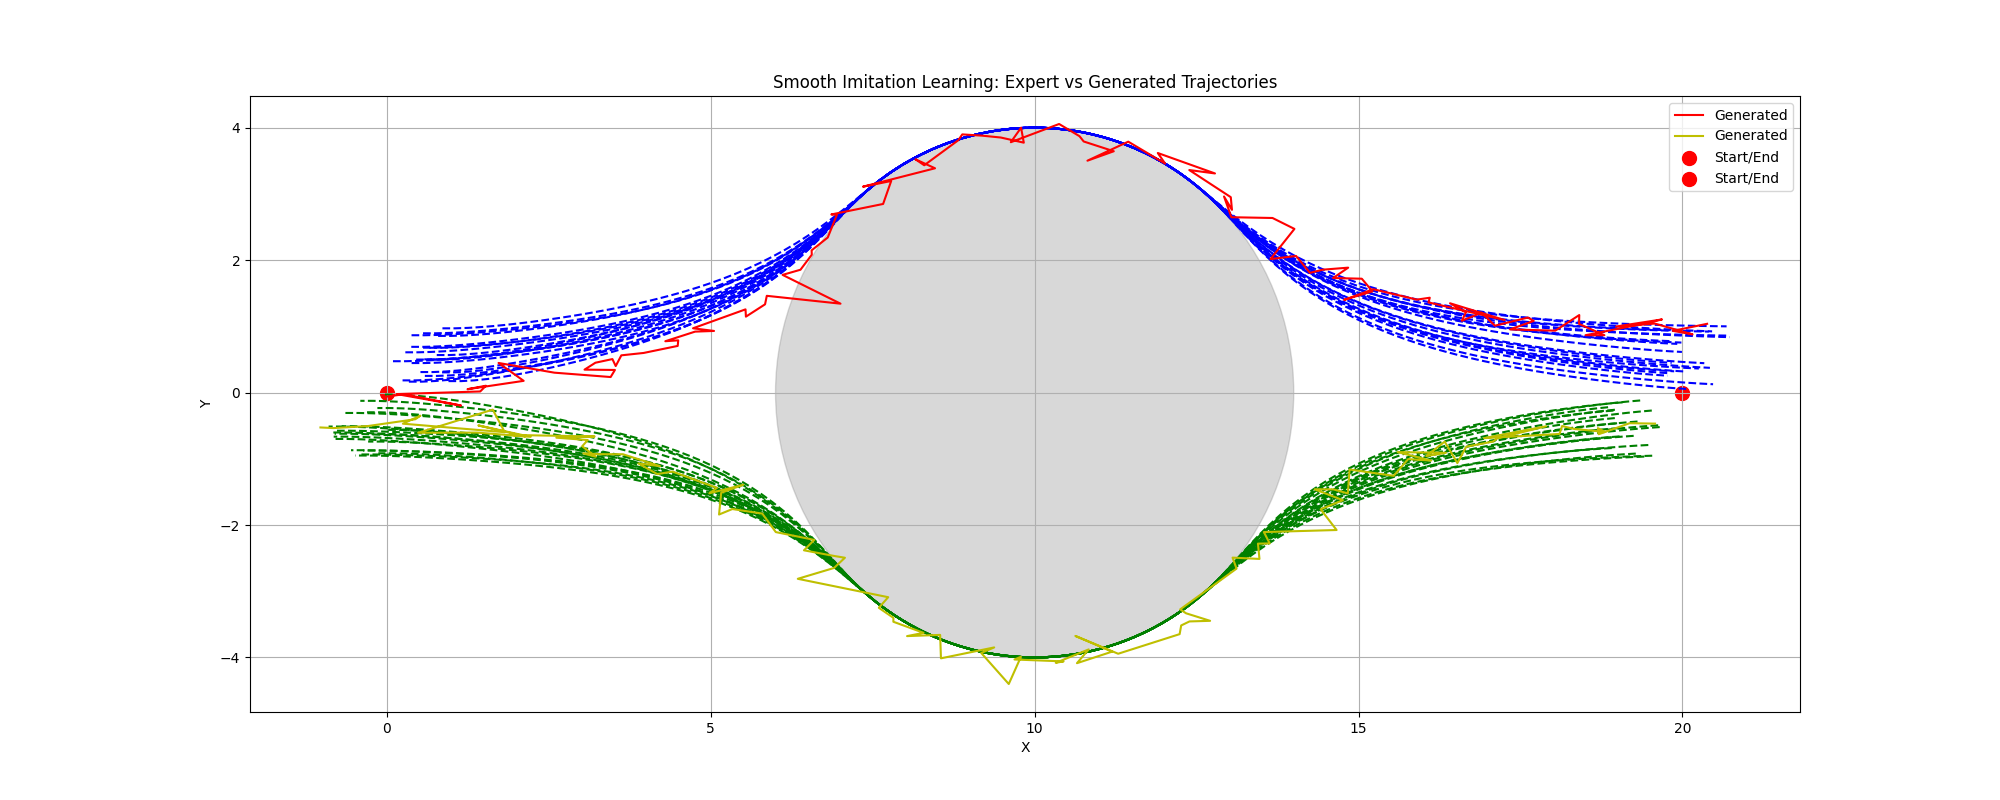
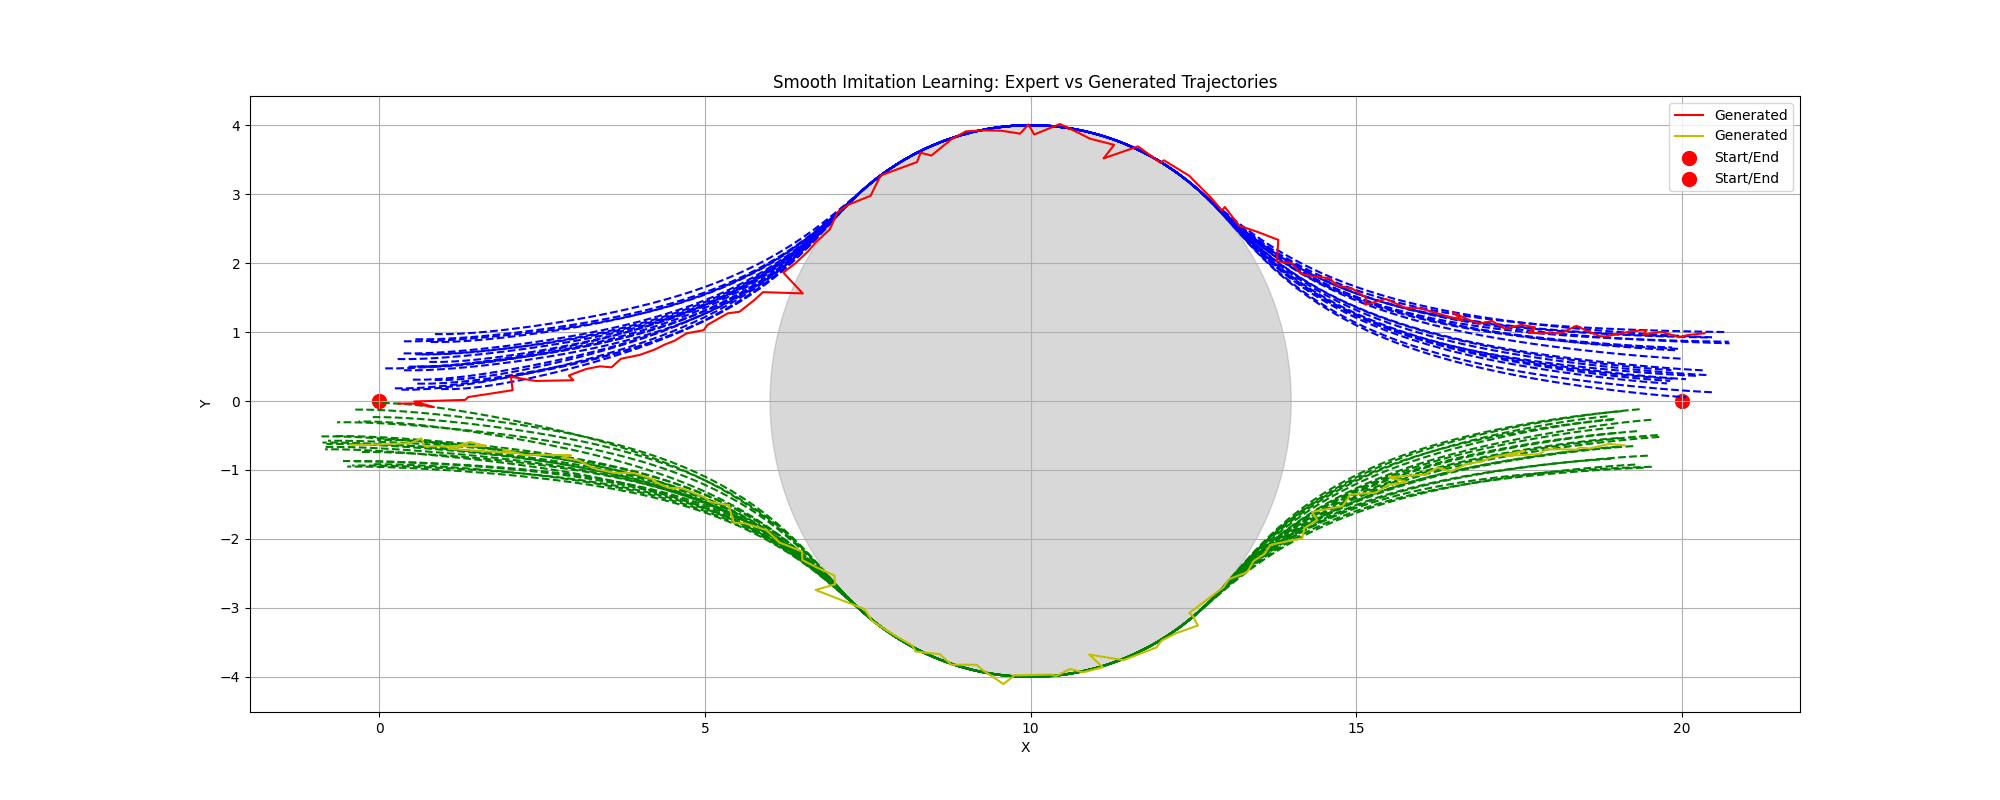
file organizing

diff --git a/decentralized_two_denoiser/diffusion_shared_loss.py b/decentralized_two_denoiser/diffusion_shared_loss.py
@@ -259,54 +259,57 @@ batch_size = 64
 lr = 1e-3
 
 losses = np.zeros(num_epochs)
-optimizer1 = torch.optim.Adam(denoiser1.parameters(), lr)
-optimizer2 = torch.optim.Adam(denoiser2.parameters(), lr)
+optimizer1 = torch.optim.Adam(denoiser1.parameters(), lr, weight_decay=1e-4)
+optimizer2 = torch.optim.Adam(denoiser2.parameters(), lr, weight_decay=1e-4)
 scheduler1 = torch.optim.lr_scheduler.CosineAnnealingLR(optimizer1, T_max=num_epochs)
 scheduler2 = torch.optim.lr_scheduler.CosineAnnealingLR(optimizer2, T_max=num_epochs)
 
 
-# for epoch in range(num_epochs):
-#     t = torch.randint(0, max_steps, (batch_size, 1))
-#     integers = torch.randint(0, num_trajectories, (batch_size,))
-#     x01 = torch.tensor(expert_data_up[integers]).float()
-#     x02 = torch.tensor(expert_data_down[integers]).float()
-#     eps1 = torch.randn_like(x01)
-#     eps2 = torch.randn_like(x02)
-#     x_noised1  = x01
-#     x_noised2  = x02
-#     x_noised1 = x_noised1*torch.sqrt(alphas_bar[t]).unsqueeze(-1) + eps1*torch.sqrt(1-alphas_bar[t]).unsqueeze(-1)
-#     x_noised2 = x_noised2*torch.sqrt(alphas_bar[t]).unsqueeze(-1) + eps2*torch.sqrt(1-alphas_bar[t]).unsqueeze(-1)
+for epoch in range(num_epochs):
+    t = torch.randint(0, max_steps, (batch_size, 1))
+    integers = torch.randint(0, num_trajectories, (batch_size,))
+    x01 = torch.tensor(expert_data_up[integers]).float()
+    x02 = torch.tensor(expert_data_down[integers]).float()
+    eps1 = torch.randn_like(x01)
+    eps2 = torch.randn_like(x02)
+    x_noised1  = x01
+    x_noised2  = x02
+    x_noised1 = x_noised1*torch.sqrt(alphas_bar[t]).unsqueeze(-1) + eps1*torch.sqrt(1-alphas_bar[t]).unsqueeze(-1)
+    x_noised2 = x_noised2*torch.sqrt(alphas_bar[t]).unsqueeze(-1) + eps2*torch.sqrt(1-alphas_bar[t]).unsqueeze(-1)
 
-#     pred1 = denoiser1(x_noised1, t.float())
-#     pred2 = denoiser2(x_noised2, t.float())
+    pred1 = denoiser1(x_noised1, t.float())
+    pred2 = denoiser2(x_noised2, t.float())
 
-#     loss = F.mse_loss(pred1, eps1) + F.mse_loss(pred2, eps2)
+    loss = F.mse_loss(pred1, eps1) + F.mse_loss(pred2, eps2)
 
-#     # if loss.detach().item() < 3:
-#     #     print("Loss:",loss.detach().item())
-#     #     print("Epoch:",epoch)
-#     #     torch.save(denoiser1.state_dict(), 'checkpoints_new/unet1_diff_tran_epoch'+str(epoch)+'.pth')
-#     #     torch.save(denoiser2.state_dict(), 'checkpoints_new/unet2_diff_tran_epoch'+str(epoch)+'.pth')
+    # if loss.detach().item() < 3:
+    #     print("Loss:",loss.detach().item())
+    #     print("Epoch:",epoch)
+    #     torch.save(denoiser1.state_dict(), 'checkpoints_new/unet1_diff_tran_epoch'+str(epoch)+'.pth')
+    #     torch.save(denoiser2.state_dict(), 'checkpoints_new/unet2_diff_tran_epoch'+str(epoch)+'.pth')
 
-#     optimizer1.zero_grad()
-#     optimizer2.zero_grad()
-#     loss.backward()
-#     optimizer1.step()
-#     optimizer2.step()
-#     scheduler1.step()
-#     scheduler2.step()
-#     losses[epoch] = loss.detach().item()
+    optimizer1.zero_grad()
+    optimizer2.zero_grad()
+    loss.backward()
+    max_norm = 1.0  # You can adjust this value as needed
+    torch.nn.utils.clip_grad_norm_(denoiser1.parameters(), max_norm)
+    torch.nn.utils.clip_grad_norm_(denoiser2.parameters(), max_norm)
+    optimizer1.step()
+    optimizer2.step()
+    scheduler1.step()
+    scheduler2.step()
+    losses[epoch] = loss.detach().item()
 
-#     if epoch%100 == 0:
-#         print("Epoch:",epoch)
-#         print("Loss:",losses[epoch])
+    if epoch%100 == 0:
+        print("Epoch:",epoch)
+        print("Loss:",losses[epoch])
 
-#     if (epoch+1)%1000 == 0:
-#         torch.save(denoiser1.state_dict(), 'checkpoints_new/unet1_diff_tran_epoch'+str(epoch)+'_temp.pth')
-#         torch.save(denoiser2.state_dict(), 'checkpoints_new/unet2_diff_tran_epoch'+str(epoch)+'_temp.pth')
+    if (epoch+1)%1000 == 0:
+        torch.save(denoiser1.state_dict(), 'checkpoints_new/unet1_diff_tran_epoch'+str(epoch)+'_temp.pth')
+        torch.save(denoiser2.state_dict(), 'checkpoints_new/unet2_diff_tran_epoch'+str(epoch)+'_temp.pth')
 
-#     if losses[epoch] < 3:
-#         lr = 1e-4
+    if losses[epoch] < 3:
+        lr = 1e-4
 
 
 denoiser1 = DiT1d(x_dim=2, attr_dim=1, d_model=384, n_heads=6, depth=12, dropout=0.1)
